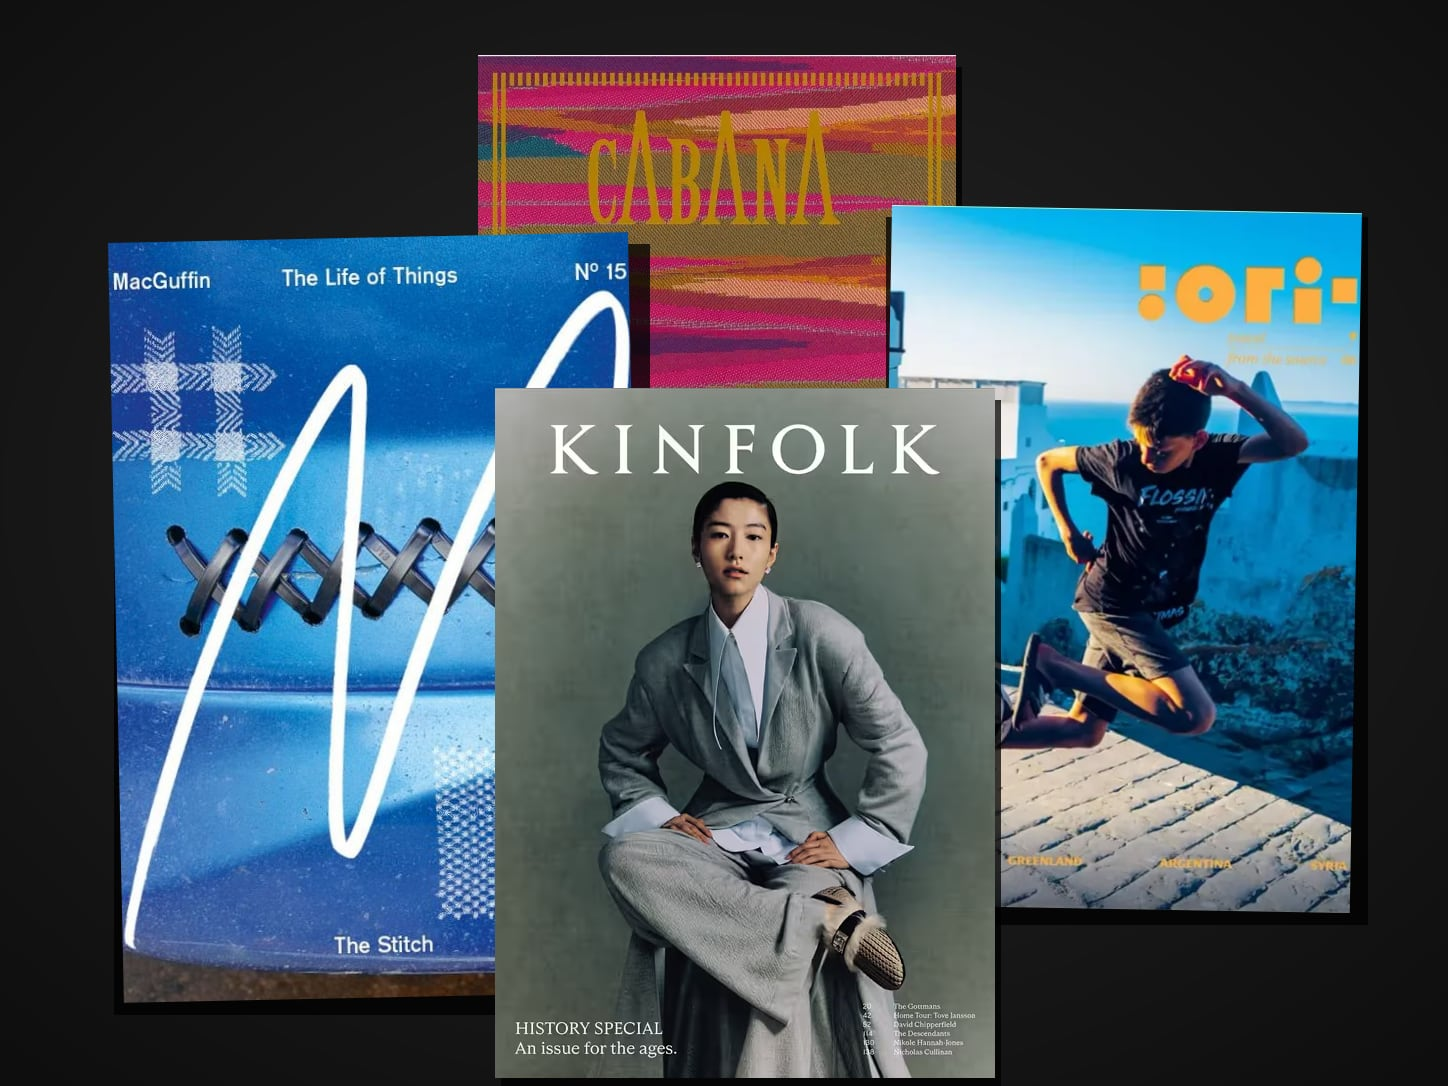
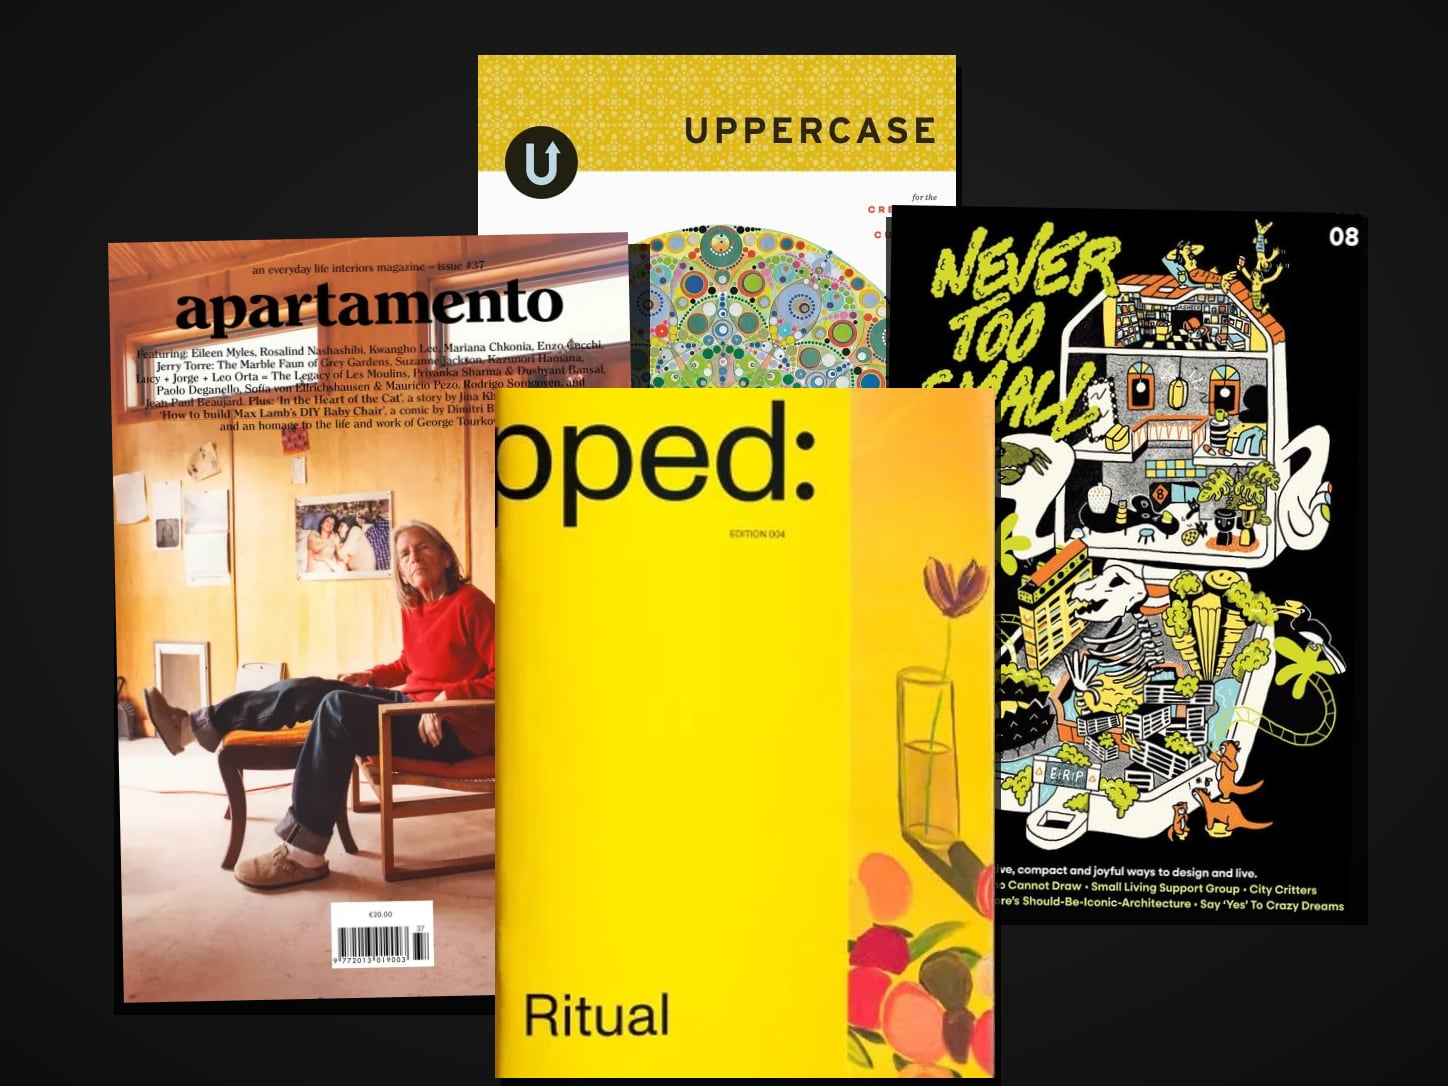
Guest Room: new representative lineup
Apartamento, Untapped, MacGuffin, ARK Journal, Ori, Never Too Small,
Openhouse, UPPERCASE and Design Anthology. Kinfolk, Cabana, Magazine B,
Desired Landscapes and Roads & Kingdoms drop out. Untapped and Design
Anthology use static flat covers until their Index images are replaced.

Claude-Session: https://claude.ai/code/session_014yKBgTu8BG1Gb5QbTGC8BK

diff --git a/src/lib/packs.ts b/src/lib/packs.ts
@@ -172,21 +172,22 @@ export const PACKS: Pack[] = [
     price: 200,
     blurb:
       'Rooms, objects, far-off places, and the people who make them. Print that makes a room feel lived in by someone with taste.',
-    count: '8 titles',
-    retail: '$254.50',
+    count: '9 titles',
+    retail: '$254.45',
     image: '/assets/pack-guest-room.jpg',
     // TODO(stripe): replace with the Guest Room $200 and $300 Payment Links.
     order: PENDING_ORDER('The Guest Room'),
     withStand: PENDING_ORDER('The Guest Room, with stand'),
     contents: [
-      { title: 'Kinfolk', slug: 'kinfolk' },
+      { title: 'Apartamento', slug: 'apartamento' },
+      { title: 'Untapped', slug: 'untapped', image: '/assets/covers/guestroom_untapped.jpg' },
       { title: 'MacGuffin', slug: 'macguffin' },
+      { title: 'ARK Journal', slug: 'ark-journal' },
       { title: 'Ori Magazine', slug: 'ori-magazine' },
-      { title: 'Cabana', slug: 'cabana' },
+      { title: 'Never Too Small', slug: 'never-too-small' },
       { title: 'Openhouse', slug: 'openhouse' },
-      { title: 'Magazine B', slug: 'magazine-b' },
-      { title: 'Desired Landscapes', slug: 'desired-landscapes' },
-      { title: 'Roads & Kingdoms', slug: 'roads-and-kingdoms' },
+      { title: 'UPPERCASE', slug: 'uppercase' },
+      { title: 'Design Anthology', slug: 'design-anthology', image: '/assets/covers/guestroom_design-anthology.jpg' },
     ],
   },
 ];
